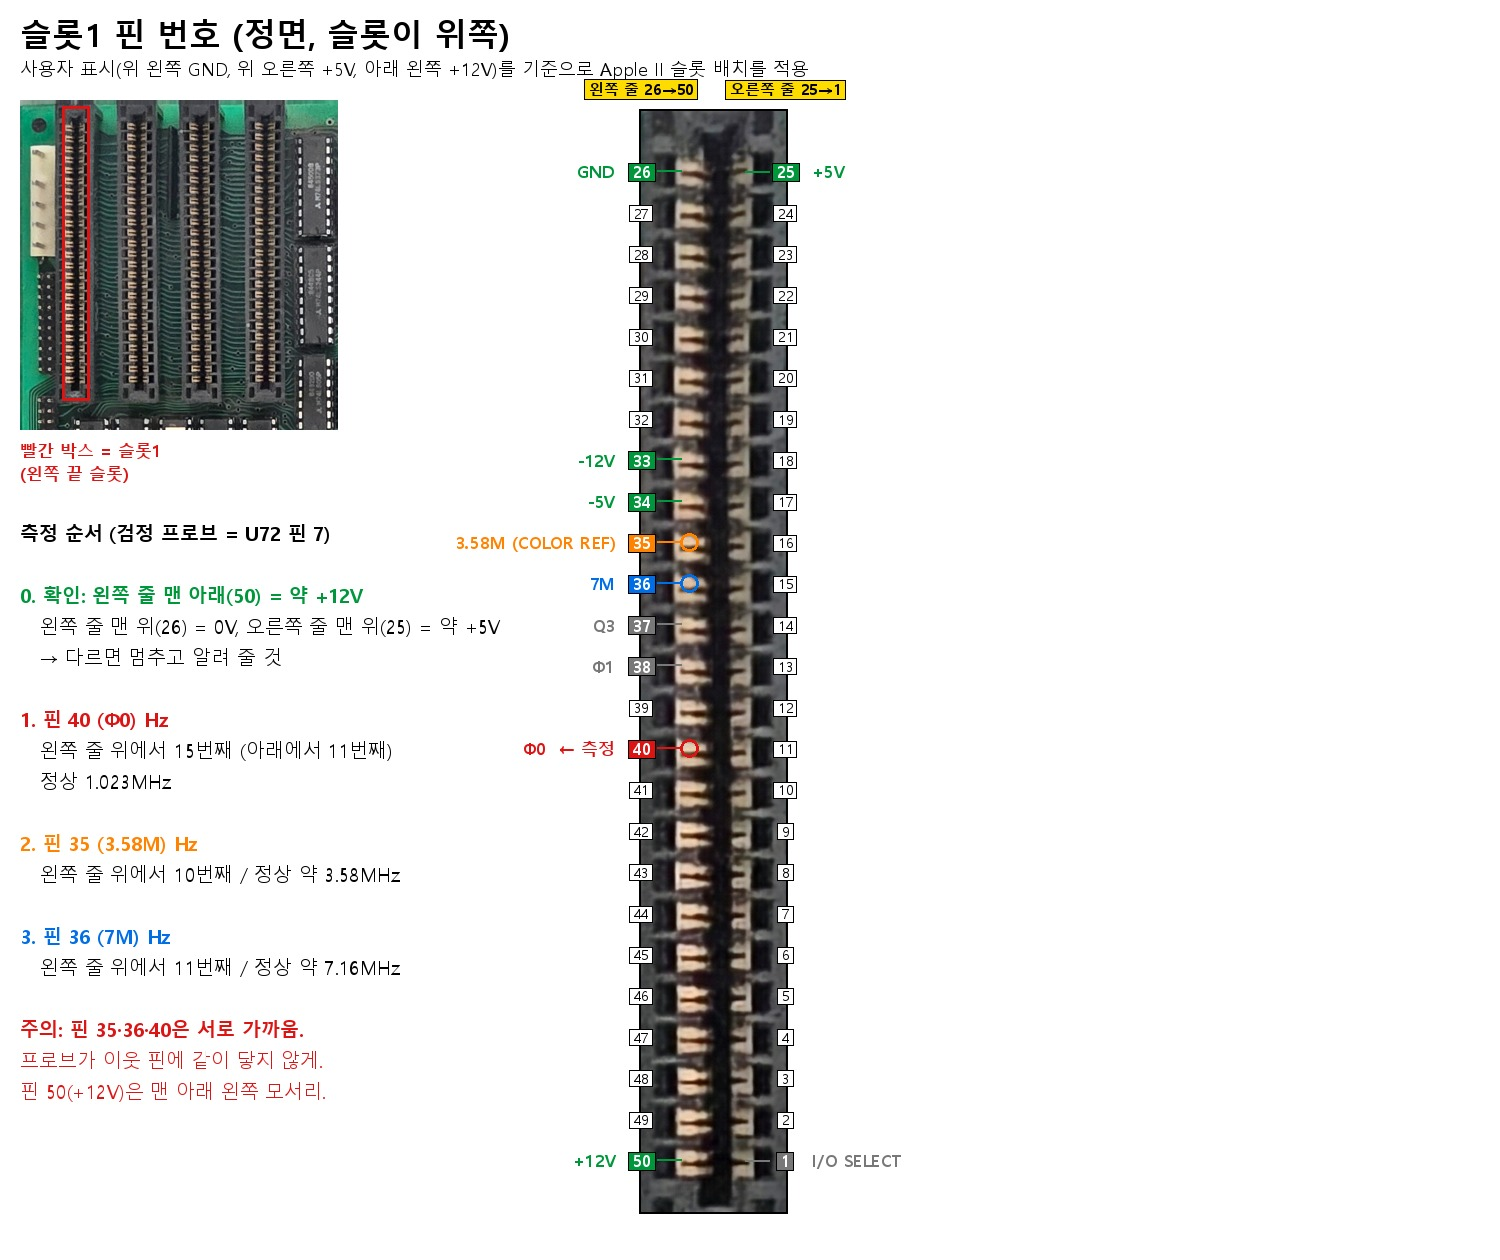
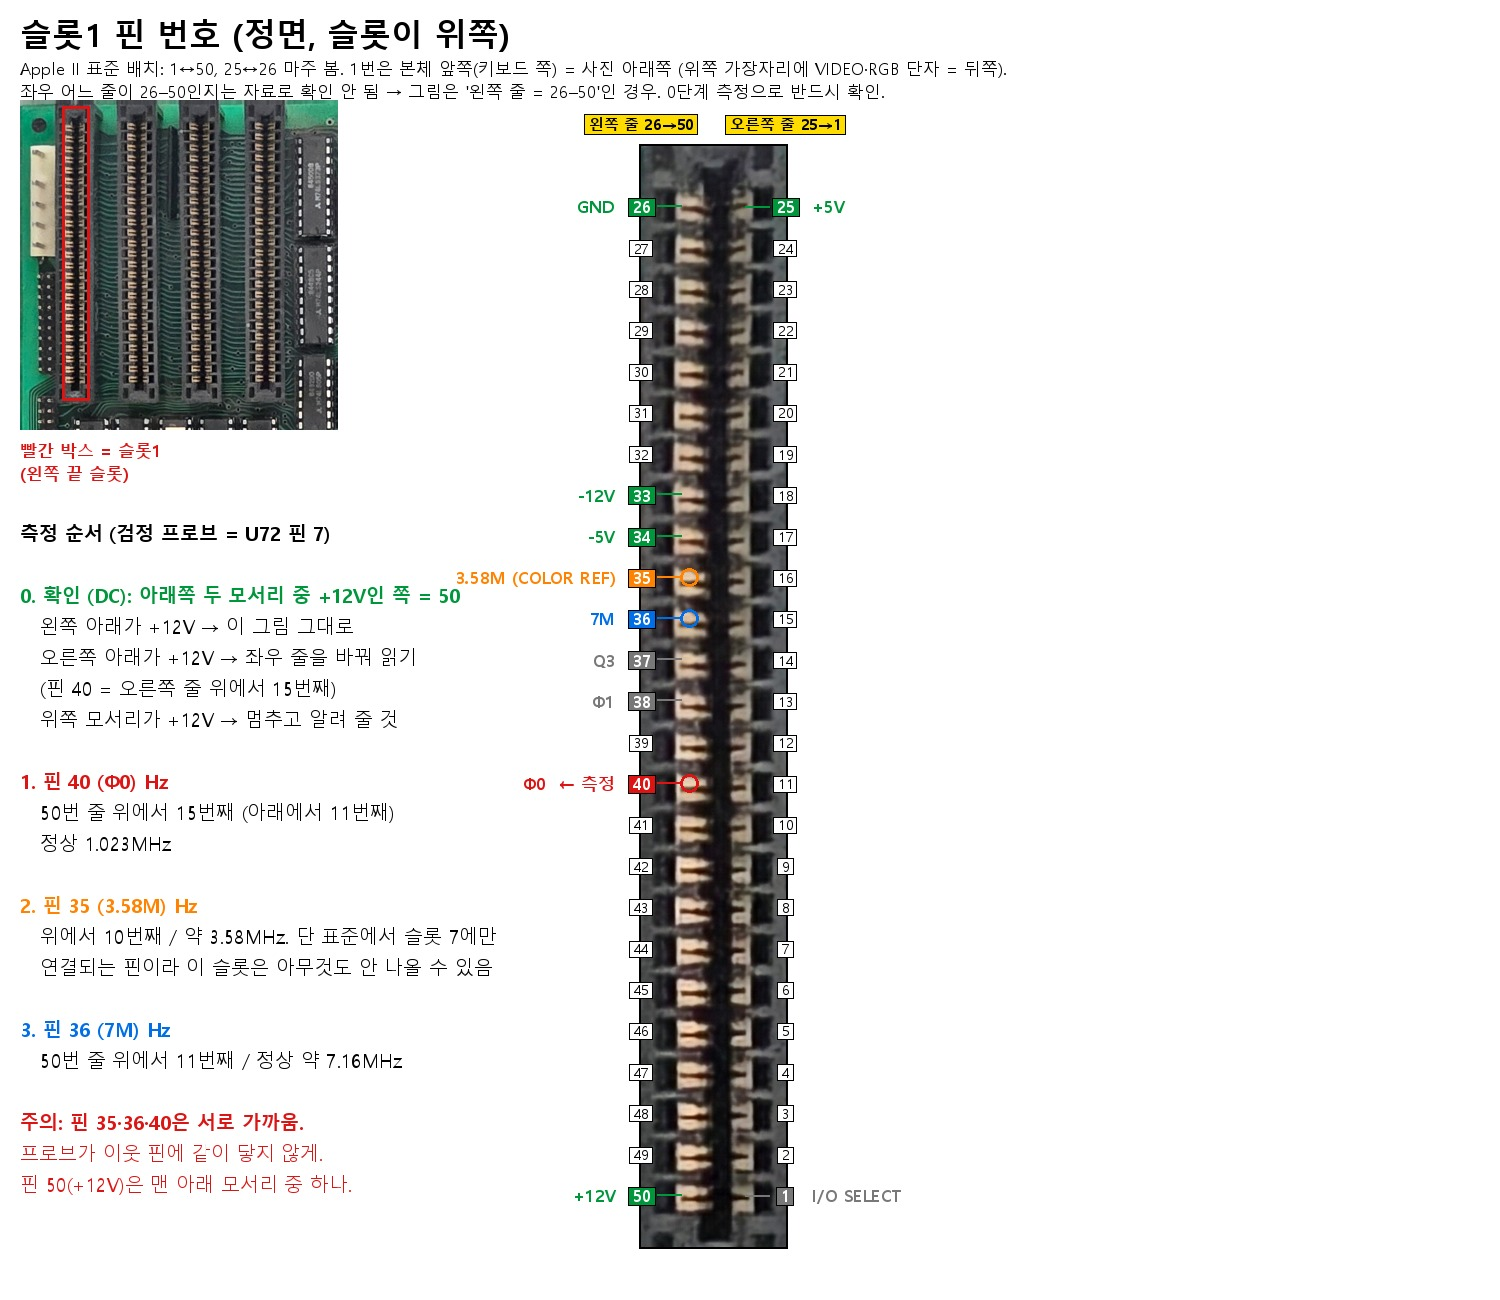
슬롯1 핀 번호를 Apple II 표준 기준으로 다시 그림, 사용자 표시 기반 기록 철회

diff --git a/tools/annotate_slot1_pins.py b/tools/annotate_slot1_pins.py
@@ -1,7 +1,7 @@
 """슬롯1 50핀 번호 그림 생성.
 사용: python tools/annotate_slot1_pins.py photos/overview/front/202813_front-flat_layout-ref.jpg analysis/slot1_pins.jpg
-배치 근거: 사용자 표시(2026-11-07) 위쪽 왼쪽 GND, 위쪽 오른쪽 +5V, 아래 왼쪽 +12V,
-왼쪽 줄 위에서 8·9번째 -12V·-5V → 왼쪽 줄 = 26(위)~50(아래), 오른쪽 줄 = 25(위)~1(아래).
+배치 근거: Apple II 표준(1↔50, 25↔26 마주 봄, 1번은 본체 앞쪽). 사진 위쪽 가장자리가 뒤쪽(VIDEO·RGB 단자).
+좌우 줄은 자료로 미확인 → 왼쪽 줄 = 26(위)~50(아래), 오른쪽 줄 = 25(위)~1(아래)인 경우로 그림. 측정으로 확인 필요.
 """
 import sys
 from PIL import Image, ImageDraw, ImageFont
@@ -16,7 +16,7 @@ BLK, WHITE = (0, 0, 0), (255, 255, 255)
 RED, ORG, BLUE = (220, 20, 20), (255, 130, 0), (0, 110, 230)
 GRN, GRAY, YEL = (0, 150, 60), (120, 120, 120), (255, 220, 0)
 
-W, H = 1500, 1260
+W, H = 1500, 1300
 cv = Image.new("RGB", (W, H), WHITE)
 d = ImageDraw.Draw(cv)
 
@@ -27,8 +27,9 @@ def label(xy, text, sz=17, fg=BLK, bg=WHITE, anchor="mm", bold=True):
     d.text(xy, text, font=f, fill=fg, anchor=anchor)
 
 d.text((20, 12), "슬롯1 핀 번호 (정면, 슬롯이 위쪽)", font=font(32, True), fill=BLK)
-d.text((20, 56), "사용자 표시(위 왼쪽 GND, 위 오른쪽 +5V, 아래 왼쪽 +12V)를 기준으로 Apple II 슬롯 배치를 적용",
-       font=font(18), fill=BLK)
+d.text((20, 56), "Apple II 표준 배치: 1↔50, 25↔26 마주 봄. 1번은 본체 앞쪽(키보드 쪽) = 사진 아래쪽 (위쪽 가장자리에 VIDEO·RGB 단자 = 뒤쪽).\n"
+       "좌우 어느 줄이 26–50인지는 자료로 확인 안 됨 → 그림은 '왼쪽 줄 = 26–50'인 경우. 0단계 측정으로 반드시 확인.",
+       font=font(17), fill=BLK)
 
 # --- small locator ---
 loc = src.crop((0, 0, 1060, 1100)).resize((318, 330))
@@ -41,7 +42,7 @@ d.text((20, 438), "빨간 박스 = 슬롯1\n(왼쪽 끝 슬롯)", font=font(17, 
 X0, Y0, X1, Y1 = 120, 40, 245, 975
 sc = 1.18
 im = src.crop((X0, Y0, X1, Y1)).resize((int((X1-X0)*sc), int((Y1-Y0)*sc)), Image.LANCZOS)
-ax, ay = 640, 110
+ax, ay = 640, 145
 cv.paste(im, (ax, ay))
 d.rectangle((ax-1, ay-1, ax+im.size[0], ay+im.size[1]), outline=BLK, width=2)
 def M(x, y):
@@ -78,23 +79,26 @@ tx, ty = 20, 520
 lines = [
     ("측정 순서 (검정 프로브 = U72 핀 7)", True, BLK),
     ("", False, BLK),
-    ("0. 확인: 왼쪽 줄 맨 아래(50) = 약 +12V", True, GRN),
-    ("   왼쪽 줄 맨 위(26) = 0V, 오른쪽 줄 맨 위(25) = 약 +5V", False, BLK),
-    ("   → 다르면 멈추고 알려 줄 것", False, BLK),
+    ("0. 확인 (DC): 아래쪽 두 모서리 중 +12V인 쪽 = 50", True, GRN),
+    ("   왼쪽 아래가 +12V → 이 그림 그대로", False, BLK),
+    ("   오른쪽 아래가 +12V → 좌우 줄을 바꿔 읽기", False, BLK),
+    ("   (핀 40 = 오른쪽 줄 위에서 15번째)", False, BLK),
+    ("   위쪽 모서리가 +12V → 멈추고 알려 줄 것", False, BLK),
     ("", False, BLK),
     ("1. 핀 40 (Φ0) Hz", True, RED),
-    ("   왼쪽 줄 위에서 15번째 (아래에서 11번째)", False, BLK),
+    ("   50번 줄 위에서 15번째 (아래에서 11번째)", False, BLK),
     ("   정상 1.023MHz", False, BLK),
     ("", False, BLK),
     ("2. 핀 35 (3.58M) Hz", True, ORG),
-    ("   왼쪽 줄 위에서 10번째 / 정상 약 3.58MHz", False, BLK),
+    ("   위에서 10번째 / 약 3.58MHz. 단 표준에서 슬롯 7에만", False, BLK),
+    ("   연결되는 핀이라 이 슬롯은 아무것도 안 나올 수 있음", False, BLK),
     ("", False, BLK),
     ("3. 핀 36 (7M) Hz", True, BLUE),
-    ("   왼쪽 줄 위에서 11번째 / 정상 약 7.16MHz", False, BLK),
+    ("   50번 줄 위에서 11번째 / 정상 약 7.16MHz", False, BLK),
     ("", False, BLK),
     ("주의: 핀 35·36·40은 서로 가까움.", True, RED),
     ("프로브가 이웃 핀에 같이 닿지 않게.", False, RED),
-    ("핀 50(+12V)은 맨 아래 왼쪽 모서리.", False, RED),
+    ("핀 50(+12V)은 맨 아래 모서리 중 하나.", False, RED),
 ]
 for t, b, c in lines:
     d.text((tx, ty), t, font=font(19, b), fill=c)

diff --git a/docs/08-repair-log.md b/docs/08-repair-log.md
@@ -30,7 +30,9 @@ X1 → U72 (발진) ─┬→ U64 클럭: 1.9V (정상)
 
 측정 위치 그림(U30·U64 핀 번호, U72 핀 7 GND, J1 위치) 생성 스크립트: [`tools/annotate_measure_points.py`](../tools/annotate_measure_points.py). 출력 이미지는 저장소에서 제거함 (2026-11-07)
 
-슬롯1 50핀 번호 그림: [`analysis/slot1_pins.jpg`](../analysis/slot1_pins.jpg). 사용자 표시(2026-11-07: 위 왼쪽 GND, 위 오른쪽 +5V, 아래 왼쪽 +12V)를 기준으로 왼쪽 줄 = 26(위)→50(아래), 오른쪽 줄 = 25(위)→1(아래). 핀 40(Φ0)은 왼쪽 줄 위에서 15번째. J1은 위에서부터 GND, +12V, −5V, −12V, +5V (사용자 표시)
+슬롯1 50핀 번호 그림: [`analysis/slot1_pins.jpg`](../analysis/slot1_pins.jpg). Apple II 표준 배치(1↔50, 25↔26 마주 봄, 1번은 본체 앞쪽 = 사진 아래쪽)를 적용. 좌우 어느 줄이 26–50인지는 자료로 확인 안 됨 → 그림은 왼쪽 줄 = 26(위)→50(아래)인 경우. 아래쪽 두 모서리 중 +12V인 쪽이 50번이므로 측정으로 확정. 핀 40(Φ0)은 50번 줄 위에서 15번째.
+
+주의: Apple II 표준에서 핀 35(COLOR REF, 3.58M)는 **슬롯 7에만** 연결됨(//e 자료 기준). 이 보드의 슬롯 1–4에서는 신호가 없을 수 있음. J1 핀별 전압은 미확인(사용자 표시는 잘못 그린 것이라 철회, 2026-11-07)
 
 | 순서 | 측정 | 방법 | 정상 / 판정 |
 | --- | --- | --- | --- |
